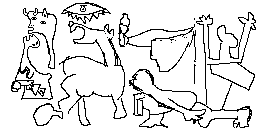
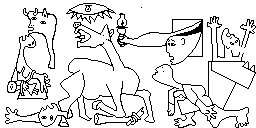
I can't even remember

Changed region(s): [[0.0, 0.0, 1.0, 1.0], [0.4062, 0.6562, 0.4375, 0.7188], [0.1875, 0.375, 0.2188, 0.4062]]

diff --git a/src/App.js b/src/App.js
@@ -1,7 +1,7 @@
 import React, { Component } from 'react';
 // import logo from './logo.svg';
 import codeImg from './Code.png'
-import artImg from './Guernica.png'
+import artImg from './Guernica5.png'
 import './App.css';
 
 class NavLinks extends React.Component {
@@ -88,14 +88,41 @@ class ArtPage extends React.Component {
 			<div class="grid-container outline">
 				<div class= "row">
 					<div className="col-2 codeImg">
+						<img src={artImg} alt="Pixel art Guernica"/>
+						<p>(My adaptation, but not my art.)</p>
+					</div>
+					<div className="col-3">
+						<h2 className="heading">About My Art:</h2>
+						<p id="artText">I started doing pixel art in 2017, mainly because I was not good at traditional art and
+							hoped that I could hide it behind a mandatory low resolution.  All things told, I think that
+
+							Turns out I really liked pixel art, and 
+							animation especially.  Plus it's a useful skill to have for an aspiring game developer.</p>
+					</div>
+					<div className="col-1" id="codeLangs">
+						what should I put here?
+						<div id="github-link">
+							<a href="https://www.github.com/noahkittleson" target="_blank" className="App-link">My ArtStation</a>
+						</div>
+					</div>
+				</div>
+			</div>
+		</div>
+	}
+}
+
+class GamePage extends React.Component {
+	render() {
+		return <div className="body" id="games">
+			<div class="grid-container outline">
+				<div class= "row">
+					<div className="col-2 codeImg">
 						<img src={artImg} alt="A picture of the code for this webpage."/>
 						<p>(My adaptation, but not my art.)</p>
 					</div>
 					<div className="col-3">
 						<h2 className="heading">About My Art:</h2>
-						<p id="codeText">I started doing pixel art in 2017, mainly because I was not good at traditional art and
-							hoped that I could hide it behind an enforced low resolution.  Turns out I really liked pixel art, and 
-							animation especially.  Plus it's a useful skill to have for an aspiring game developer.</p>
+						<p id="codeText">This is the page about the game what that I'm making.</p>
 					</div>
 					<div className="col-1" id="codeLangs">
 						what should I put here?
@@ -109,18 +136,27 @@ class ArtPage extends React.Component {
 	}
 }
 
-class GamePage extends React.Component {
-	render() {
-		return <div className="body" id="games">
-			<p>This is the Game Page</p>
-		</div>
-	}
-}
-
 class WordPage extends React.Component {
 	render() {
 		return <div className="body" id="words">
-			<p>This is the Words Page</p>
+			<div class="grid-container outline">
+				<div class= "row">
+					<div className="col-2 codeImg">
+						<img src={artImg} alt="A picture of the code for this webpage."/>
+						<p>(My adaptation, but not my art.)</p>
+					</div>
+					<div className="col-3">
+						<h2 className="heading">About My Art:</h2>
+						<p id="codeText">And this is a page about the stuff that I've written.</p>
+					</div>
+					<div className="col-1" id="codeLangs">
+						what should I put here?
+						<div id="github-link">
+							<a href="https://www.github.com/noahkittleson" target="_blank" className="App-link">My GitHub</a>
+						</div>
+					</div>
+				</div>
+			</div>
 		</div>
 	}
 }

diff --git a/src/App.css b/src/App.css
@@ -158,8 +158,13 @@ ul {
   text-align: left;
 }
 
+#artText {
+  margin-left: 20px;
+  text-align: left;
+}
+
 #art {
-  background-color: #75a375
+  background-color: #819881;
 }
 
 #games {
@@ -167,7 +172,7 @@ ul {
 }
 
 #words {
-  background-color: #cc3300
+  background-color: #e48767;
 }
 
 #landing {
